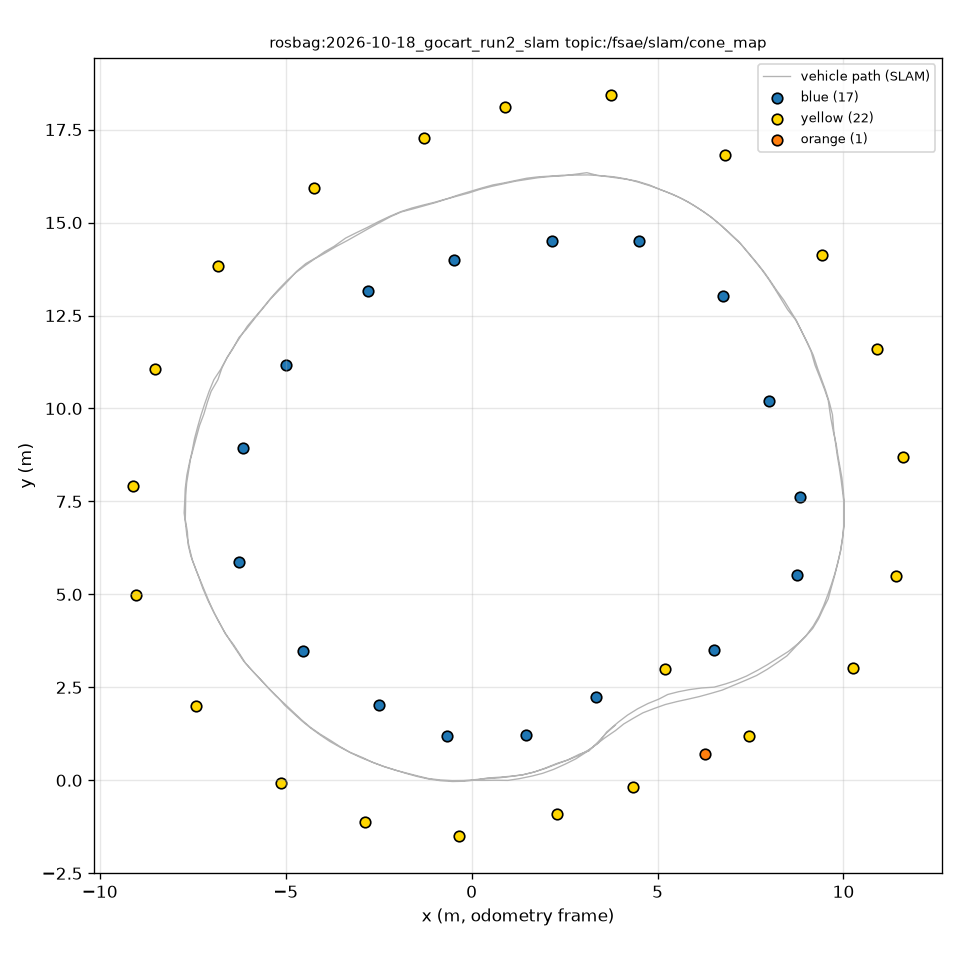
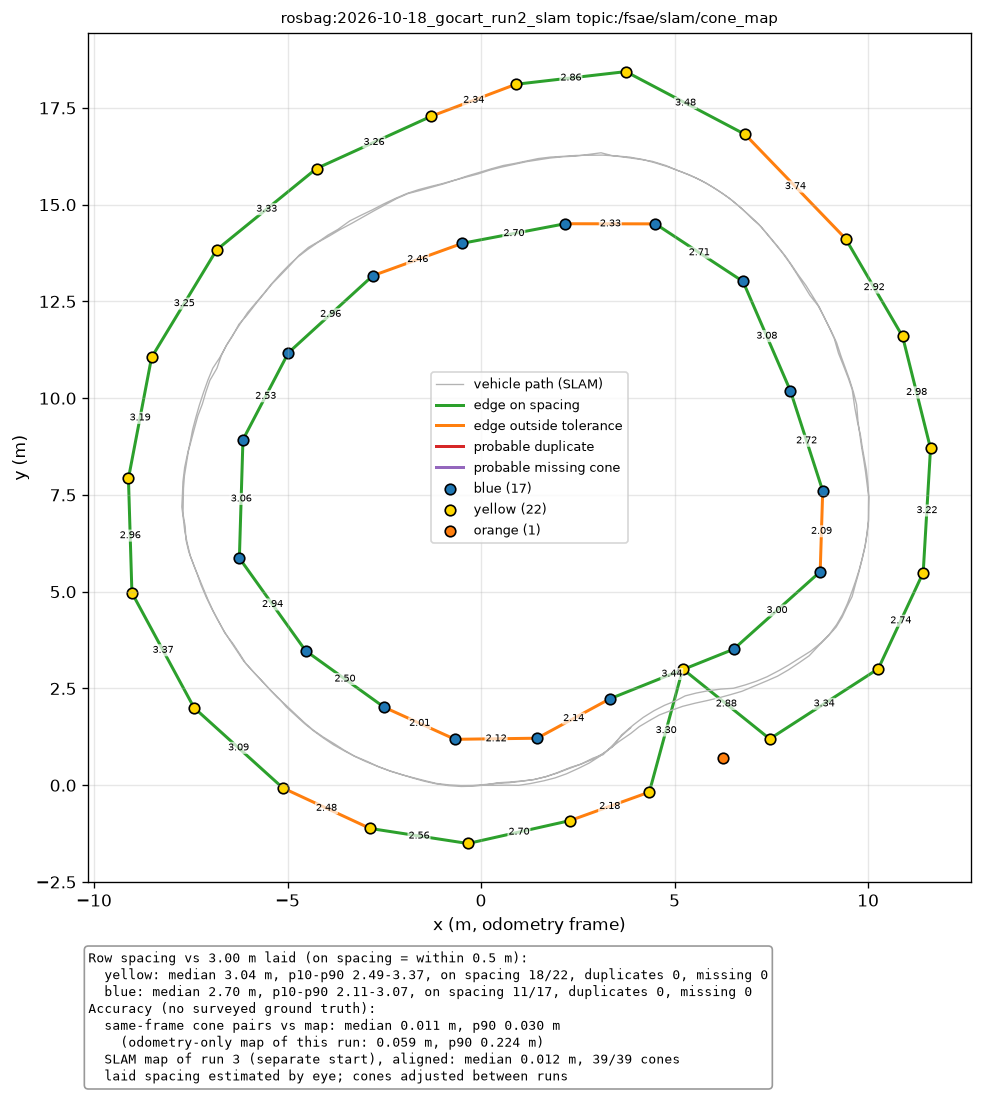
Track preview with row edges and a results box (rosbag_cone_map --spacing-reference, --note); regenerate the go-kart preview

diff --git a/tuner/tools/rosbag_cone_map.py b/tuner/tools/rosbag_cone_map.py
@@ -50,6 +50,8 @@ Usage
 -----
     python3 -m tuner.tools.rosbag_cone_map ~/fsae_data/bags/<bag_dir> --name gokart_night_loop
     python3 -m tuner.tools.rosbag_cone_map <bag_dir> --name <name> --plot preview.png
+    python3 -m tuner.tools.rosbag_cone_map <bag_dir> --name <name> --plot preview.png \
+        --spacing-reference 3.0 --note "any extra result line"     # edges + results box
     python3 -m tuner.tools.rosbag_cone_map <bag_dir> --out /tmp/cone_map.json   # no track dir
     python3 -m tuner.tools.rosbag_cone_map <slam_replay_bag> --slam --name <name>
 
@@ -324,13 +326,46 @@ def write_cone_map(path, cones, source, lap_closed=True):
         json.dump(payload, f, indent=2)
 
 
-def plot(path_png, cones, stats, title):
+def plot(path_png, cones, stats, title, spacing_reference=None, notes=()):
+    """Cones over the vehicle path. With spacing_reference, also each row's edges from
+    cone_spacing_check (coloured by result, labelled with their length) and a box with the
+    spacing summary; `notes` adds lines to that box (e.g. accuracy checks run elsewhere)."""
     import matplotlib
     matplotlib.use('Agg')
     import matplotlib.pyplot as plt
-    fig, ax = plt.subplots(figsize=(8, 8))
+    fig, ax = plt.subplots(figsize=(9, 9))
     p = stats['path']
     ax.plot(p[:, 0], p[:, 1], '-', color='0.7', lw=0.8, label=stats.get('path_label', 'vehicle path'))
+    box = []
+    if spacing_reference is not None:
+        from tuner.tools import cone_spacing_check as csc
+        colour_of = {'ok': 'tab:green', 'short': 'tab:orange', 'long': 'tab:orange',
+                     'duplicate?': 'tab:red', 'missing cone?': 'tab:purple'}
+        box.append(f'Row spacing vs {spacing_reference:.2f} m laid '
+                   f'(on spacing = within {csc.TOLERANCE_M:.1f} m):')
+        for g in ('yellow', 'blue'):
+            if len(cones[g]) < 2:
+                continue
+            pts = np.array([c[0] for c in cones[g]])
+            es = csc.row_edges(pts, csc.chain_row(pts, csc.MAX_EDGE_FACTOR * spacing_reference))
+            for i, j, length in es:
+                lab = csc.classify(length, spacing_reference, csc.TOLERANCE_M)
+                ax.plot(*np.array([pts[i], pts[j]]).T, '-', color=colour_of[lab], lw=1.8, zorder=1)
+                ax.annotate(f'{length:.2f}', tuple((pts[i] + pts[j]) / 2), fontsize=6,
+                            ha='center', va='center',
+                            bbox=dict(boxstyle='round,pad=0.1', fc='white', ec='none', alpha=0.7))
+            sm = csc.summarise([e[2] for e in es], spacing_reference, csc.TOLERANCE_M)
+            box.append(f'  {g}: median {sm["median"]:.2f} m, p10-p90 {sm["p10"]:.2f}-{sm["p90"]:.2f}, '
+                       f'on spacing {sm["ok"]}/{sm["n"]}, duplicates {sm["duplicate"]}, '
+                       f'missing {sm["missing"]}')
+        for lab, col in (('edge on spacing', 'tab:green'), ('edge outside tolerance', 'tab:orange'),
+                         ('probable duplicate', 'tab:red'), ('probable missing cone', 'tab:purple')):
+            ax.plot([], [], '-', color=col, lw=1.8, label=lab)
+    box.extend(notes)
+    if box:
+        # Below the axes, so it never hides cones.
+        ax.text(0.0, -0.08, '\n'.join(box), transform=ax.transAxes, fontsize=8, va='top',
+                family='monospace', bbox=dict(boxstyle='round', fc='white', ec='0.6'))
     for g, col in (('blue', 'tab:blue'), ('yellow', 'gold'), ('orange', 'tab:orange')):
         if cones[g]:
             xy = np.array([c[0] for c in cones[g]])
@@ -342,7 +377,7 @@ def plot(path_png, cones, stats, title):
     ax.set_xlabel('x (m, odometry frame)')
     ax.set_ylabel('y (m)')
     fig.tight_layout()
-    fig.savefig(path_png, dpi=120)
+    fig.savefig(path_png, dpi=120, bbox_inches='tight')
 
 
 def main(argv=None):
@@ -361,6 +396,10 @@ def main(argv=None):
                     help='minimum sightings per cone (default 5; 3 with --slam, its own promote_after)')
     ap.add_argument('--open', action='store_true', help='mark the track as not a closed loop')
     ap.add_argument('--plot', help='write a PNG preview here')
+    ap.add_argument('--spacing-reference', type=float,
+                    help='with --plot: draw row edges and their check against this laid spacing, m')
+    ap.add_argument('--note', action='append', default=[],
+                    help='with --plot: a line for the results box (repeatable)')
     a = ap.parse_args(argv)
 
     bag_dir = os.path.abspath(os.path.expanduser(a.bag_dir))
@@ -391,7 +430,7 @@ def main(argv=None):
                   f'spread median {np.median(sp):.2f} m, max {sp.max():.2f} m')
     print(f'wrote {out}')
     if a.plot:
-        plot(a.plot, cones, stats, source)
+        plot(a.plot, cones, stats, source, a.spacing_reference, a.note)
         print(f'wrote {a.plot}')
 
 

diff --git a/docs/guides/offline_guide.md b/docs/guides/offline_guide.md
@@ -302,7 +302,7 @@ Two ways to build the map:
 | Needs | Python and numpy | ROS 2, a built `fsae_slam` (GTSAM) |
 
 - **Method:** each detection on `/cone_detection_fused` is placed in the odometry frame with the `car_pose` carried in the same message, then repeats are clustered per colour (median position, at least `--min-obs` sightings). Only detections 1-7 m away are used, because the camera's range error grows with the square of distance.
-- **Output:** `--name <base>` writes `<TRACKS_DIR>/<base>_<bag date>/cone_map.json`, with `source: "rosbag:..."`. `--plot` writes a preview of the cones and the odometry path.
+- **Output:** `--name <base>` writes `<TRACKS_DIR>/<base>_<bag date>/cone_map.json`, with `source: "rosbag:..."`. `--plot` writes a preview of the cones and the vehicle path. Add `--spacing-reference <m>` to draw every row edge checked against the laid spacing (same check as `cone_spacing_check`) with a results box, and `--note "<line>"` (repeatable) for extra result lines such as accuracy checks.
 - **Not corrected: odometry drift.** The map is only as good as the run's odometry. A run whose path spirals in the preview (about 1 m per lap on two of the 2026-10-18 kart runs) duplicates cones; use a run whose laps overlap.
 - **One bag, one frame.** Every stack start moves the origin, so maps from two runs differ by a rotation and offset.
 - **Excluded from the default:** `newest_track()` skips these tracks, so a kart loop never becomes `DEFAULT_MAP`. Load it by name.

diff --git a/fsds_simulator/tracks/gokart_night_loop_20261018/README.md b/fsds_simulator/tracks/gokart_night_loop_20261018/README.md
@@ -8,7 +8,7 @@ script's default map. Load it by name.
 | File | What it is |
 |---|---|
 | `cone_map.json` | 17 blue, 22 yellow, 1 orange cone (`orange` is ignored by the simulator loaders). The final SLAM map of run 2 (`2026-10-18_gocart_run2_tierA_stanley11pct_night`), replayed through `fsae_autonomous`'s `cone_landmark_mapper` with `tuner/tools/rosbag_slam_replay.sh` (fused cones up to 7 m) and converted with `python3 -m tuner.tools.rosbag_cone_map <replay> --slam` |
-| `preview.png` | the cones and the SLAM-corrected path of that run |
+| `preview.png` | the cones, the SLAM-corrected path, every row edge checked against the 3 m laid spacing, and a box with the spacing and accuracy results (`rosbag_cone_map --plot ... --spacing-reference 3.0 --note ...`) |
 | `spacing.png` | `python3 -m tuner.tools.cone_spacing_check gokart_night_loop_20261018 --width-reference 3.5`: every row edge against the 3 m laid spacing. Yellow median 3.04 m (18 of 22 within 0.5 m), blue 2.70 m (11 of 17), no duplicates or missing cones |
 | `centerline.csv` | `tuner.tools.raceline_optimizer --mode centerline`. The geometry is the reconstructed centreline; the `v_target` column is the simulated car's speed profile and means nothing for the kart |
 

diff --git a/docs/modules/offline_sim.md b/docs/modules/offline_sim.md
@@ -687,7 +687,7 @@ Don't:
 - combine two bags into one map, because each stack start puts the odometry origin somewhere else.
 - raise `--merge-radius` past half the cone spacing, because neighbouring cones then merge.
 - trust a map from a run whose odometry drifts (laps spiralling in the preview), because drift duplicates cones and nothing corrects it.
-Also reads a SLAM replay bag (`--slam`): the last `/fsae/slam/cone_map` message, decoded by hand like `ConeDetection`, with `/fsae/slam/path` for the preview.
+Also reads a SLAM replay bag (`--slam`): the last `/fsae/slam/cone_map` message, decoded by hand like `ConeDetection`, with `/fsae/slam/path` for the preview. `--spacing-reference` draws `cone_spacing_check`'s row edges on the preview with a results box below the axes; `--note` adds lines to it.
 Key API: `build_cone_map`, `read_detections`, `read_slam_map`, `write_cone_map`, `plot`
 
 ### `tuner/tools/rosbag_slam_replay.sh`
